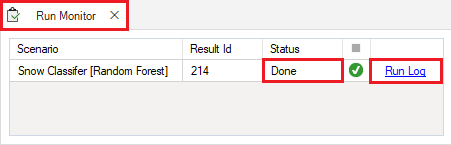
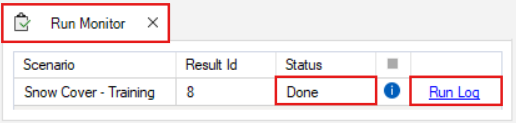
updating datasheet descriptions

diff --git a/docs/getting_started.md b/docs/getting_started.md
@@ -82,7 +82,7 @@ This opens the *scenario properties* window.
 Located underneath the **General** tab, the model **Pipeline** allows you to select which stages of the model to include and in what order they should be run. A full run of **ecoClassify** consists of three stages:
 
 * (1) **Train Classifier**: training and ground-truthed rasters are used to create the classifier model
-* (2) **Predict**: the classifier model is applied to rasters to classify
+* (2) **Predict**: the classifier model is applied to "prediction" raster (i.e., rasters to be classified)
 * (3) **Post-Process**: the output classification rasters are filtered, filled in, or reclassified based on a mask raster
 
 Note that the *Predict* stage is dependent on the results of the previous stage, *Train Classifier*, *Post-Process* stage is dependent on the *Train Classifier* and the *Predict* stages. You cannot run a stage without having first run the previous required stages, either in the same scenario or included as dependencies.
@@ -110,26 +110,36 @@ The **Classifier options** datasheet is where you may specify a sample size and 
 
 <img align="middle" style="padding: 3px" width="550" src="assets/images/classifier-options.png">
 
+<br>
+
 The **Rasters** tab contains two datasheets, **Training Rasters** and **Covariates**.
 
 The **Training Rasters** datasheet is where training and user classified spatial data are loaded into the library. Note that this datasheet also contains a **Timestep** column. In the **ecoClassify** package, timesteps are used to link training rasters with their corresponding user classified rasters. 
 
-The **Covariates** datasheet is where additional spatial data are loaded into the library. Note that these data are applied to each timestep.
+<img align="middle" style="padding: 3px" width="550" src="assets/images/rasters-training-datasheet.png">
 
 <br>
 
-**Post-processing options** is where you can choose to apply filtering or not. If you choose to apply filtering, you may also apply a filter resolution and threshold.
+The **Covariates** datasheet is where additional spatial data are loaded into the library. Note that there is no Timestep column; these data are applied to each timestep.
 
-<img align="middle" style="padding: 3px" width="550" src="assets/images/post-processing-options.png">
+<img align="middle" style="padding: 3px" width="550" src="assets/images/training-covariates-datasheet.png">
 
 <br>
 
 The **Advanced** datasheet is where you can select options for the model training process.
 
+<img align="middle" style="padding: 3px" width="550" src="assets/images/advanced-datasheet.png">
+
+<br>
+
 Raster preprocessing:
 * Selecting **Override band names** renames layers in each training raster in the **Training Rasters** datasheet to the template "Band[layer number]".
 * Selecting **Normalize Rasters** applies min-max normalization to each training raster in the **Training Rasters** datasheet to have values ranging between 0 and 1.
 * Adjusting the **Raster decimal places** value specifies the number of decimal places assigned to the values in each pixel. Reducing the number of decimal places can reduce the memory disk space required to process large rasters.
+
+<img align="middle" style="padding: 3px" width="550" src="assets/images/advanced-raster-preprocessing-datasheet.png">
+
+<br>
 
 Model tuning:
 * Selecting **Enable automated tuning** tunes the model to optimize for the **Objective** that is specified.
@@ -138,20 +148,36 @@ Model tuning:
     * For CNN models, a greater number of epochs and a larger batch size are used to evaluate the model when automated tuning is enabled.
 * Selecting a model tuning **Objective** maximizes the specified objective (choose between "Youden", "Accuracy", "Specificity", "Sensitivity", "Precision", and "Balanced") within minimum metric constraints.
 
+<img align="middle" style="padding: 3px" width="550" src="assets/images/advanced-model-tuning-datasheet.png">
+
+<br>
+
 Thresholding:
 * Selecting **Set probability threshold** switches to manually setting a probability threshold for classifying a pixel as "present" or "absent" rather than the default of automated probability threshold selection.
 * Adjusting the **Threshold** value defines the manual probability threshold.
+
+<img align="middle" style="padding: 3px" width="550" src="assets/images/advanced-thresholding-datasheet.png">
+
+<br>
 
 Contextualization:
 * Selecting the **Apply contextualization** applies spatial contextualization to the list of training rasters by computing local statistics and principal components over a square moving window.
 * Adjusting the **Window size** defines the contextualization window size. This value must be an odd number.
 
+<img align="middle" style="padding: 3px" width="550" src="assets/images/advanced-contextualization-datasheet.png">
+
+<br>
+
 Reproducibility:
 * Adjusting the **Random seed** value fixes the starting point of the random number sequence used for sampling the training rasters.
 
+<img align="middle" style="padding: 3px" width="550" src="assets/images/advanced-reproducibility-datasheet.png">
+
+<br>
+
 #### Output
 
-Finally, the **Output** node contains the **Statistics** datasheet that contains key statistics from the image classifier model that is created in the model training step. 
+Finally, the **Output** node contains the **Statistics** datasheet. This datasheet is filled with key statistics for the image classifier model that is generated during the **Training** step. To view an example, click on the dropdown arrow to the left of the **Snow Cover - Training** scenario and double click on **[5] Snow Cover - Training** result scenario and navigate to the **Statistics** datasheet.
 
 <br>
 
@@ -166,7 +192,13 @@ In the **2-Predict** stage, there is a new **Predicting** tab under **Input > Ra
 
 The **Predicting Rasters** datasheet is where rasters to be classified are loaded into the library. As with the **Training rasters** datasheet, this datasheet also contains a **Timestep** column to provide a unique identifier for each predicting raster. These rasters must have layer names that match the names used to train the image classifer.
 
+<img align="middle" style="padding: 3px" width="550" src="assets/images/predicting-rasters-datasheet.png">
+
+<br>
+
 The **Covariates** datasheet is where additional spatial data are loaded into the library. Note that these data are applied to each timestep, and their layer names must match the names used to train the image classifer.
+
+<img align="middle" style="padding: 3px" width="550" src="assets/images/predicting-covariates-datasheet.png">
 
 <br>
 
@@ -184,16 +216,32 @@ The **Filtering** datasheet contains otpions for filtering and filling in the cl
 * The **Min neighbours to keep** value specifies the threshold for the number adjacent "present" pixels required in order to not filter out the central pixel. A higher value results in more filtering.
 * the **Min neighbours to fill** value specifies the threshold for the number adjacent "present" pixels required in order for the pixels surrounding the central pixel to be reclassified as "present." A higher value results in less filling.
 
+<img align="middle" style="padding: 3px" width="550" src="assets/images/filtering-datasheet.png">
+
+<br>
+
+The **Rule-Based Restrictions** datasheet is where you can apply rules for reclassifying the rasters based on the pixel values in supplied rasters with the same resolution and spatial extent.
+* The **Class** value specifies the class that the reclassification rules should be applied to (0 or 1)
+* The **Condition Raster** is where you can load the raster that contains the values that the rules are based on
+* The **Minimum Value** is the lowest value in the range of rules
+* The **Maximum Value** is the highest value in the range of rules
+* The **Reclassify Value** is the value that should be assigned to pixels that fall within the specified range
+
+In this example, the pixels are assigned a value of 1 ("present") in the classified raster where values in the "dem-cropped-30m.tif" raster have a value between 1500-1800:
+
+
+<img align="middle" style="padding: 3px" width="550" src="assets/images/reclassification-datasheet.png">
+
 <br>
 
 ### Dependencies
-Dependencies can be used to break each stage up into a separate scenario, as is done in this example library. Click on the dropdown icon on the left side of the **Snow Cover - Predicting** scenario to show the two nested folders: **Dependencies** and **Results**. Click on the **Dependencies** folder. The first scenario, **Snow Cover - Training**, is present as a dependency. The most recent results from this scenario will be used as the inputs to the Predicting scenario each time it is run
+Dependencies can be used to break each stage up into a separate scenario, as is done in this example library. Click on the dropdown icon on the left side of the **Snow Cover - Predicting** scenario to show the two nested folders: **Dependencies** and **Results**. Click on the **Dependencies** folder. The first scenario, **Snow Cover - Training**, is present as a dependency. The most recent results from this scenario will be used as the inputs to the Predicting scenario each time it is run. Click on the **Dependencies** folder in the **Snow Cover - Post-Processing** scenario; the **Snow Cover - Predicting** scenario is present as a dependency.
 
 <br>
 
 <p id="step4"> <h2>Step 4: Running models</h2> </p>
 
-Right-click on the **Snow Classifer [Random Forest]** in the **Library Explorer** window and select **Run** from the context menu. If prompted to save your project, click **Yes**. The example model run should complete within a couple of minutes. If the run is successful, you will see a Status of **Done** in the **Run Monitor** window. If the run fails, you can click on the **Run Log** link to see a report of any problems that occurred.
+Right-click on the **Snow Cover - Training** scenario in the **Library Explorer** window and select **Run** from the context menu. If prompted to save your project, click **Yes**. The example model run should complete within a couple of minutes. If the run is successful, you will see a Status of **Done** in the **Run Monitor** window. If the run fails, you can click on the **Run Log** link to see a report of any problems that occurred. A **blue imformation symbol** indicates that there is additional information in the run log, which will occurr in all scenarios using the **Training** stage.
 
 <img align="middle" style="padding: 3px" width="550" src="assets/images/run-monitor.png">
 
@@ -203,7 +251,7 @@ Right-click on the **Snow Classifer [Random Forest]** in the **Library Explorer*
 
 Once the run is complete, you can view the details of the *result scenario*:
 
-* In the **Library Explorer**, expand the drop-down arrow next to the **Snow Classifer [Random Forest]** *scenario* to reveal the *Results* folder. Nested under this folder are the *result scenarios*. Note that this template **ecoClassify** library already contains results, which is why there are two *result scenarios* associated with this *parent scenario*. 
+* In the **Library Explorer**, expand the drop-down arrow next to the **Snow Cover - Training** *scenario* to reveal the *Results* folder. Nested under this folder are the *result scenarios*. Note that this template **ecoClassify** library already contains results, which is why there are two *result scenarios* associated with this *parent scenario*. 
 
 <img align="middle" style="padding: 3px" width="400" src="assets/images/result-scenario.png">
 
@@ -223,7 +271,7 @@ You can look through the *result scenario* to see the updated or newly populated
 
 ### Model Outputs
 
-To view spatial outputs, move to the results panel at the bottom left of the **Library Explorer** window. Under the **Maps** tab, double-click on the **Predicted Presence [Classified]** map to visualize the classified rasters.
+To view spatial outputs, move to the results panel at the bottom left of the **Library Explorer** window. Under the **Maps** tab, double-click on the **Prediction** map to visualize the classified rasters.
 
 <img align="middle" style="padding: 3px" width="350" src="assets/images/library-explorer-maps.png">
 
@@ -235,7 +283,7 @@ The first two columns show the **Unfiltered** and **Filtered** classified raster
 
 <br>
 
-Next, double-click on the **Predicted Presence [Training]** map to view the **Unfiltered** and **Filtered** results of the training rasters compared to the **Probability** and **Ground Truth** maps of snow presence and absence. 
+Next, double-click on the **Training** map to view the **Unfiltered** and **Filtered** results of the training rasters compared to the **Probability** and **Ground Truth** maps of snow presence and absence. 
 
 <img align="middle" style="padding: 3px" width="900" src="assets/images/map2.png">
 
